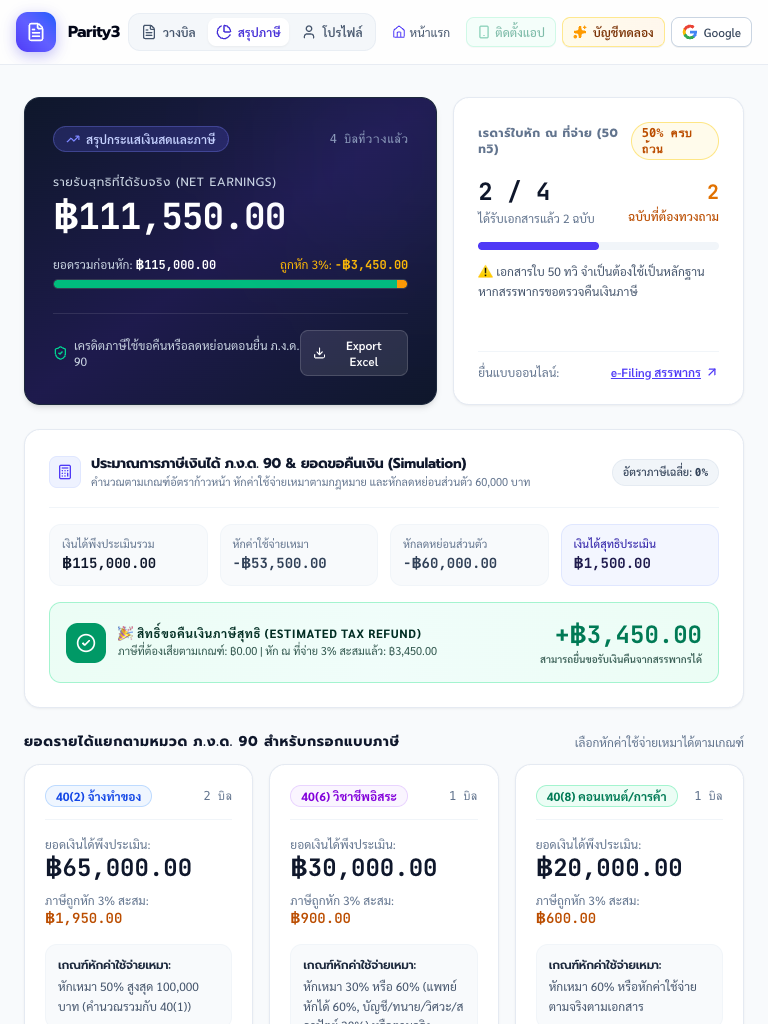
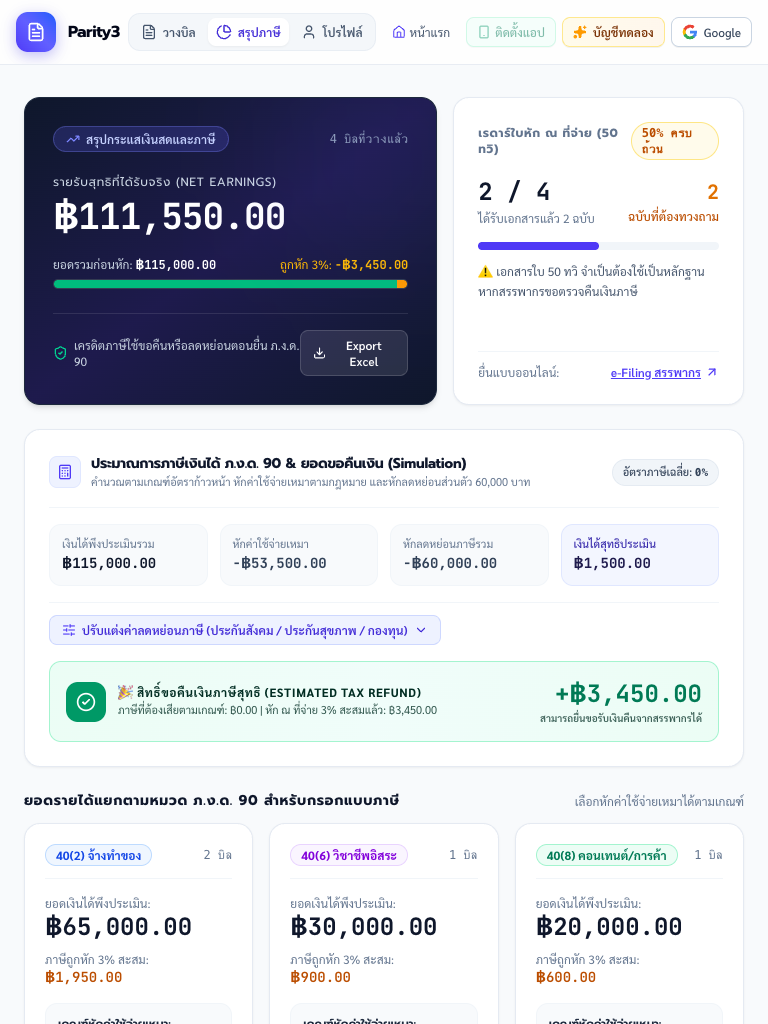
feat(tax): add customizable tax deduction profile with statutory caps and real-time PND 90 refund recalculation

Changed region(s): [[0.0312, 0.5938, 0.5938, 1.0], [0.6875, 0.5938, 0.9688, 1.0]]

diff --git a/src/components/Pnd90Dashboard.tsx b/src/components/Pnd90Dashboard.tsx
@@ -1,6 +1,6 @@
-import React from 'react';
-import { Invoice } from '../domain/storage';
-import { aggregatePnd90, estimatePnd90Tax, TaxCategory } from '../domain/tax';
+import React, { useState } from 'react';
+import { Invoice, loadDeductionProfile, saveDeductionProfile } from '../domain/storage';
+import { aggregatePnd90, estimatePnd90Tax, TaxCategory, TaxDeductionProfile, DEFAULT_DEDUCTION_PROFILE } from '../domain/tax';
 import { downloadPnd90Csv } from '../utils/exportCsv';
 import {
   Calculator,
@@ -11,6 +11,10 @@ import {
   ArrowUpRight,
   Download,
   TrendingUp,
+  SlidersHorizontal,
+  ChevronDown,
+  ChevronUp,
+  RotateCcw,
   Receipt,
   FileText
 } from 'lucide-react';
@@ -20,10 +24,27 @@ interface Props {
 }
 
 export const Pnd90Dashboard: React.FC<Props> = ({ invoices }) => {
+  const [deductions, setDeductions] = useState<TaxDeductionProfile>(loadDeductionProfile);
+  const [showDeductionEditor, setShowDeductionEditor] = useState<boolean>(false);
+
   const summary = aggregatePnd90(invoices);
-  const taxEstimate = estimatePnd90Tax(summary);
+  const taxEstimate = estimatePnd90Tax(summary, deductions);
   const netEarnings = summary.totalGrossIncome - summary.totalWhtCredit;
   const activeInvoicesCount = invoices.filter(i => i.status !== 'cancelled').length;
+
+  const handleDeductionChange = (field: keyof TaxDeductionProfile, value: number) => {
+    const updated = {
+      ...deductions,
+      [field]: Math.max(0, value)
+    };
+    setDeductions(updated);
+    saveDeductionProfile(updated);
+  };
+
+  const handleResetDeductions = () => {
+    setDeductions(DEFAULT_DEDUCTION_PROFILE);
+    saveDeductionProfile(DEFAULT_DEDUCTION_PROFILE);
+  };
   
   // Calculate percentage of 50-tawi documents collected
   const total50TawiNeeded = summary.received50TawiTotal + summary.pending50TawiTotal;
@@ -198,9 +219,9 @@ export const Pnd90Dashboard: React.FC<Props> = ({ invoices }) => {
           </div>
 
           <div className="p-3 bg-slate-50 rounded-xl border border-slate-100">
-            <div className="text-slate-500 text-[11px]">หักลดหย่อนส่วนตัว</div>
+            <div className="text-slate-500 text-[11px]">หักลดหย่อนภาษีรวม</div>
             <div className="font-bold text-slate-700 font-mono-numbers text-sm mt-0.5">
-              -฿{taxEstimate.personalAllowance.toLocaleString('th-TH', { minimumFractionDigits: 2 })}
+              -฿{taxEstimate.totalDeductions.toLocaleString('th-TH', { minimumFractionDigits: 2 })}
             </div>
           </div>
 
@@ -210,6 +231,145 @@ export const Pnd90Dashboard: React.FC<Props> = ({ invoices }) => {
               ฿{taxEstimate.netTaxableIncome.toLocaleString('th-TH', { minimumFractionDigits: 2 })}
             </div>
           </div>
+        </div>
+
+        {/* Deduction Customizer Toggle Bar */}
+        <div className="mt-4 pt-3 border-t border-slate-100">
+          <div className="flex items-center justify-between">
+            <button
+              type="button"
+              onClick={() => setShowDeductionEditor(!showDeductionEditor)}
+              className="inline-flex items-center gap-1.5 text-xs font-semibold text-indigo-700 hover:text-indigo-800 bg-indigo-50 hover:bg-indigo-100/80 px-3 py-1.5 rounded-lg border border-indigo-200/80 transition cursor-pointer"
+            >
+              <SlidersHorizontal className="w-3.5 h-3.5 text-indigo-600" />
+              <span>{showDeductionEditor ? 'ซ่อนการปรับแต่งค่าลดหย่อน' : 'ปรับแต่งค่าลดหย่อนภาษี (ประกันสังคม / ประกันสุขภาพ / กองทุน)'}</span>
+              {showDeductionEditor ? <ChevronUp className="w-3.5 h-3.5" /> : <ChevronDown className="w-3.5 h-3.5" />}
+            </button>
+
+            {showDeductionEditor && (
+              <button
+                type="button"
+                onClick={handleResetDeductions}
+                className="inline-flex items-center gap-1 text-[11px] text-slate-500 hover:text-slate-800 transition cursor-pointer"
+                title="รีเซ็ตค่าลดหย่อนเป็นค่าเริ่มต้น"
+              >
+                <RotateCcw className="w-3 h-3" />
+                <span>รีเซ็ต</span>
+              </button>
+            )}
+          </div>
+
+          {/* Collapsible Deduction Form */}
+          {showDeductionEditor && (
+            <div className="mt-3 p-4 bg-slate-50/80 rounded-xl border border-slate-200/80 grid grid-cols-1 sm:grid-cols-2 lg:grid-cols-3 gap-3 animate-in fade-in duration-150 text-xs">
+              <div>
+                <label className="text-[11px] font-medium text-slate-700 mb-1 flex items-center justify-between">
+                  <span>ประกันสังคม (ม.33/39/40)</span>
+                  <span className="text-[10px] text-slate-400">สูงสุด 9,000</span>
+                </label>
+                <div className="relative">
+                  <span className="absolute left-2.5 top-2 text-slate-400 font-mono">฿</span>
+                  <input
+                    type="number"
+                    min="0"
+                    max="9000"
+                    step="100"
+                    value={deductions.socialSecurity || ''}
+                    onChange={(e) => handleDeductionChange('socialSecurity', parseFloat(e.target.value) || 0)}
+                    placeholder="เช่น 9000 หรือ 5184"
+                    className="w-full pl-7 pr-3 py-1.5 text-xs bg-white border border-slate-200 rounded-lg focus:ring-1 focus:ring-indigo-500 focus:border-indigo-500 font-mono-numbers"
+                  />
+                </div>
+              </div>
+
+              <div>
+                <label className="text-[11px] font-medium text-slate-700 mb-1 flex items-center justify-between">
+                  <span>เบี้ยประกันสุขภาพตนเอง</span>
+                  <span className="text-[10px] text-slate-400">สูงสุด 25,000</span>
+                </label>
+                <div className="relative">
+                  <span className="absolute left-2.5 top-2 text-slate-400 font-mono">฿</span>
+                  <input
+                    type="number"
+                    min="0"
+                    max="25000"
+                    step="1000"
+                    value={deductions.healthInsurance || ''}
+                    onChange={(e) => handleDeductionChange('healthInsurance', parseFloat(e.target.value) || 0)}
+                    placeholder="เช่น 15000"
+                    className="w-full pl-7 pr-3 py-1.5 text-xs bg-white border border-slate-200 rounded-lg focus:ring-1 focus:ring-indigo-500 focus:border-indigo-500 font-mono-numbers"
+                  />
+                </div>
+              </div>
+
+              <div>
+                <label className="text-[11px] font-medium text-slate-700 mb-1 flex items-center justify-between">
+                  <span>เบี้ยประกันชีวิตทั่วไป</span>
+                  <span className="text-[10px] text-slate-400">รวมสุขภาพไม่เกิน 100k</span>
+                </label>
+                <div className="relative">
+                  <span className="absolute left-2.5 top-2 text-slate-400 font-mono">฿</span>
+                  <input
+                    type="number"
+                    min="0"
+                    max="100000"
+                    step="1000"
+                    value={deductions.lifeInsurance || ''}
+                    onChange={(e) => handleDeductionChange('lifeInsurance', parseFloat(e.target.value) || 0)}
+                    placeholder="เช่น 50000"
+                    className="w-full pl-7 pr-3 py-1.5 text-xs bg-white border border-slate-200 rounded-lg focus:ring-1 focus:ring-indigo-500 focus:border-indigo-500 font-mono-numbers"
+                  />
+                </div>
+              </div>
+
+              <div>
+                <label className="text-[11px] font-medium text-slate-700 mb-1 flex items-center justify-between">
+                  <span>กองทุน Thai ESG / RMF / SSF</span>
+                  <span className="text-[10px] text-slate-400">สูงสุด 30% ของเงินได้</span>
+                </label>
+                <div className="relative">
+                  <span className="absolute left-2.5 top-2 text-slate-400 font-mono">฿</span>
+                  <input
+                    type="number"
+                    min="0"
+                    max="500000"
+                    step="5000"
+                    value={deductions.retirementFunds || ''}
+                    onChange={(e) => handleDeductionChange('retirementFunds', parseFloat(e.target.value) || 0)}
+                    placeholder="เช่น 50000"
+                    className="w-full pl-7 pr-3 py-1.5 text-xs bg-white border border-slate-200 rounded-lg focus:ring-1 focus:ring-indigo-500 focus:border-indigo-500 font-mono-numbers"
+                  />
+                </div>
+              </div>
+
+              <div>
+                <label className="text-[11px] font-medium text-slate-700 mb-1 flex items-center justify-between">
+                  <span>ลดหย่อนอื่นๆ (บุตร/พ่อแม่/บริจาค)</span>
+                  <span className="text-[10px] text-slate-400">ตามจริง</span>
+                </label>
+                <div className="relative">
+                  <span className="absolute left-2.5 top-2 text-slate-400 font-mono">฿</span>
+                  <input
+                    type="number"
+                    min="0"
+                    step="1000"
+                    value={deductions.otherDeductions || ''}
+                    onChange={(e) => handleDeductionChange('otherDeductions', parseFloat(e.target.value) || 0)}
+                    placeholder="เช่น 30000 (บุตร 1 คน)"
+                    className="w-full pl-7 pr-3 py-1.5 text-xs bg-white border border-slate-200 rounded-lg focus:ring-1 focus:ring-indigo-500 focus:border-indigo-500 font-mono-numbers"
+                  />
+                </div>
+              </div>
+
+              <div className="p-2.5 bg-indigo-50/50 rounded-lg border border-indigo-100 flex flex-col justify-center text-[11px] text-indigo-900">
+                <span className="font-semibold text-indigo-950">💡 ผลรวมลดหย่อนที่ใช้ได้จริง:</span>
+                <span className="font-bold text-sm text-indigo-700 font-mono-numbers mt-0.5">
+                  ฿{taxEstimate.totalDeductions.toLocaleString('th-TH', { minimumFractionDigits: 2 })}
+                </span>
+                <span className="text-[10px] text-indigo-800/80 mt-0.5">(รวมสิทธิ์ส่วนตัว 60,000 บาทแล้ว)</span>
+              </div>
+            </div>
+          )}
         </div>
 
         {/* Final Tax vs 3% WHT Settlement Banner */}

diff --git a/src/domain/tax.ts b/src/domain/tax.ts
@@ -202,10 +202,77 @@ export function calculateProgressiveTax(netTaxableIncome: number): number {
   return roundCurrency(totalTax);
 }
 
+export interface TaxDeductionProfile {
+  personal: number; // default 60,000 (สิทธิ์ลดหย่อนส่วนตัว)
+  socialSecurity: number; // ประกันสังคม ม.33 (max 9k), ม.39 (max 5,184), ม.40 (max 3,600)
+  lifeInsurance: number; // เบี้ยประกันชีวิตทั่วไป (max 100k)
+  healthInsurance: number; // เบี้ยประกันสุขภาพตนเอง (max 25k, รวมกับชีวิตไม่เกิน 100k)
+  retirementFunds: number; // กองทุน Thai ESG / RMF / SSF / กอช. (max 30% เงินได้ ไม่เกิน 500k)
+  otherDeductions: number; // บุตร/บิดามารดา/บริจาค/อื่นๆ
+}
+
+export const DEFAULT_DEDUCTION_PROFILE: TaxDeductionProfile = {
+  personal: 60000,
+  socialSecurity: 0,
+  lifeInsurance: 0,
+  healthInsurance: 0,
+  retirementFunds: 0,
+  otherDeductions: 0
+};
+
+export function calculateTotalDeductions(
+  deductions: Partial<TaxDeductionProfile>,
+  grossIncome: number
+): {
+  totalDeductions: number;
+  breakdown: {
+    personal: number;
+    socialSecurity: number;
+    insurance: number;
+    retirementFunds: number;
+    other: number;
+  };
+} {
+  const personal = Math.max(0, deductions.personal ?? 60000);
+  const socialSecurity = Math.min(Math.max(0, deductions.socialSecurity || 0), 9000);
+  
+  const healthInsurance = Math.min(Math.max(0, deductions.healthInsurance || 0), 25000);
+  const lifeInsurance = Math.min(Math.max(0, deductions.lifeInsurance || 0), 100000);
+  // Combined life + health insurance cannot exceed 100,000 THB
+  const insurance = Math.min(healthInsurance + lifeInsurance, 100000);
+
+  // Retirement / Thai ESG funds: max 30% of gross income up to 500,000 THB
+  const maxRetirement = Math.min(roundCurrency(grossIncome * 0.3), 500000);
+  const retirementFunds = Math.min(Math.max(0, deductions.retirementFunds || 0), maxRetirement);
+
+  const other = Math.max(0, deductions.otherDeductions || 0);
+
+  const totalDeductions = roundCurrency(personal + socialSecurity + insurance + retirementFunds + other);
+
+  return {
+    totalDeductions,
+    breakdown: {
+      personal,
+      socialSecurity,
+      insurance,
+      retirementFunds,
+      other
+    }
+  };
+}
+
 export interface Pnd90TaxEstimate {
   totalGrossIncome: number;
   totalExpenses: number;
   personalAllowance: number;
+  totalDeductions: number;
+  deductionsBreakdown: {
+    personal: number;
+    socialSecurity: number;
+    insurance: number;
+    retirementFunds: number;
+    other: number;
+  };
   netTaxableIncome: number;
   progressiveTax: number;
   flatTax05Percent: number; // มาตรา 48(2) วิธีเหมา 0.5% (ถ้าเงินได้ >= 120,000 และภาษี > 5,000)
@@ -219,15 +286,22 @@ export interface Pnd90TaxEstimate {
 
 export function estimatePnd90Tax(
   summary: Pnd90Summary,
-  customPersonalAllowance = PERSONAL_ALLOWANCE
+  deductionsInput: Partial<TaxDeductionProfile> | number = DEFAULT_DEDUCTION_PROFILE
 ): Pnd90TaxEstimate {
   const cat40_2Expense = calculateStandardExpense('40_2', summary.byCategory['40_2'].grossIncome);
   const cat40_6Expense = calculateStandardExpense('40_6', summary.byCategory['40_6'].grossIncome);
   const cat40_8Expense = calculateStandardExpense('40_8', summary.byCategory['40_8'].grossIncome);
   const totalExpenses = roundCurrency(cat40_2Expense + cat40_6Expense + cat40_8Expense);
 
-  const personalAllowance = Math.max(0, customPersonalAllowance);
-  const netTaxableIncome = Math.max(0, roundCurrency(summary.totalGrossIncome - totalExpenses - personalAllowance));
+  const deductionProfile: Partial<TaxDeductionProfile> =
+    typeof deductionsInput === 'number'
+      ? { personal: deductionsInput }
+      : (deductionsInput || DEFAULT_DEDUCTION_PROFILE);
+
+  const { totalDeductions, breakdown } = calculateTotalDeductions(deductionProfile, summary.totalGrossIncome);
+  const personalAllowance = breakdown.personal;
+
+  const netTaxableIncome = Math.max(0, roundCurrency(summary.totalGrossIncome - totalExpenses - totalDeductions));
 
   const progressiveTax = calculateProgressiveTax(netTaxableIncome);
 
@@ -254,6 +328,8 @@ export function estimatePnd90Tax(
     totalGrossIncome: summary.totalGrossIncome,
     totalExpenses,
     personalAllowance,
+    totalDeductions,
+    deductionsBreakdown: breakdown,
     netTaxableIncome,
     progressiveTax,
     flatTax05Percent,

diff --git a/src/domain/storage.ts b/src/domain/storage.ts
@@ -1,4 +1,4 @@
-import { TaxCategory, calculateBilling } from './tax';
+import { TaxCategory, calculateBilling, TaxDeductionProfile, DEFAULT_DEDUCTION_PROFILE } from './tax';
 
 export interface InvoiceItem {
   id: string;
@@ -239,4 +239,27 @@ export function loadIssuer(): IssuerProfile {
 
 export function saveIssuer(issuer: IssuerProfile): void {
   localStorage.setItem(STORAGE_ISSUER_KEY, JSON.stringify(issuer));
+}
+
+const STORAGE_DEDUCTIONS_KEY = 'thai_freelancer_deductions';
+
+export function loadDeductionProfile(): TaxDeductionProfile {
+  try {
+    const raw = localStorage.getItem(STORAGE_DEDUCTIONS_KEY);
+    if (!raw) return DEFAULT_DEDUCTION_PROFILE;
+    return {
+      ...DEFAULT_DEDUCTION_PROFILE,
+      ...JSON.parse(raw)
+    };
+  } catch {
+    return DEFAULT_DEDUCTION_PROFILE;
+  }
+}
+
+export function saveDeductionProfile(profile: TaxDeductionProfile): void {
+  try {
+    localStorage.setItem(STORAGE_DEDUCTIONS_KEY, JSON.stringify(profile));
+  } catch {
+    // Ignore storage limits
+  }
 }
